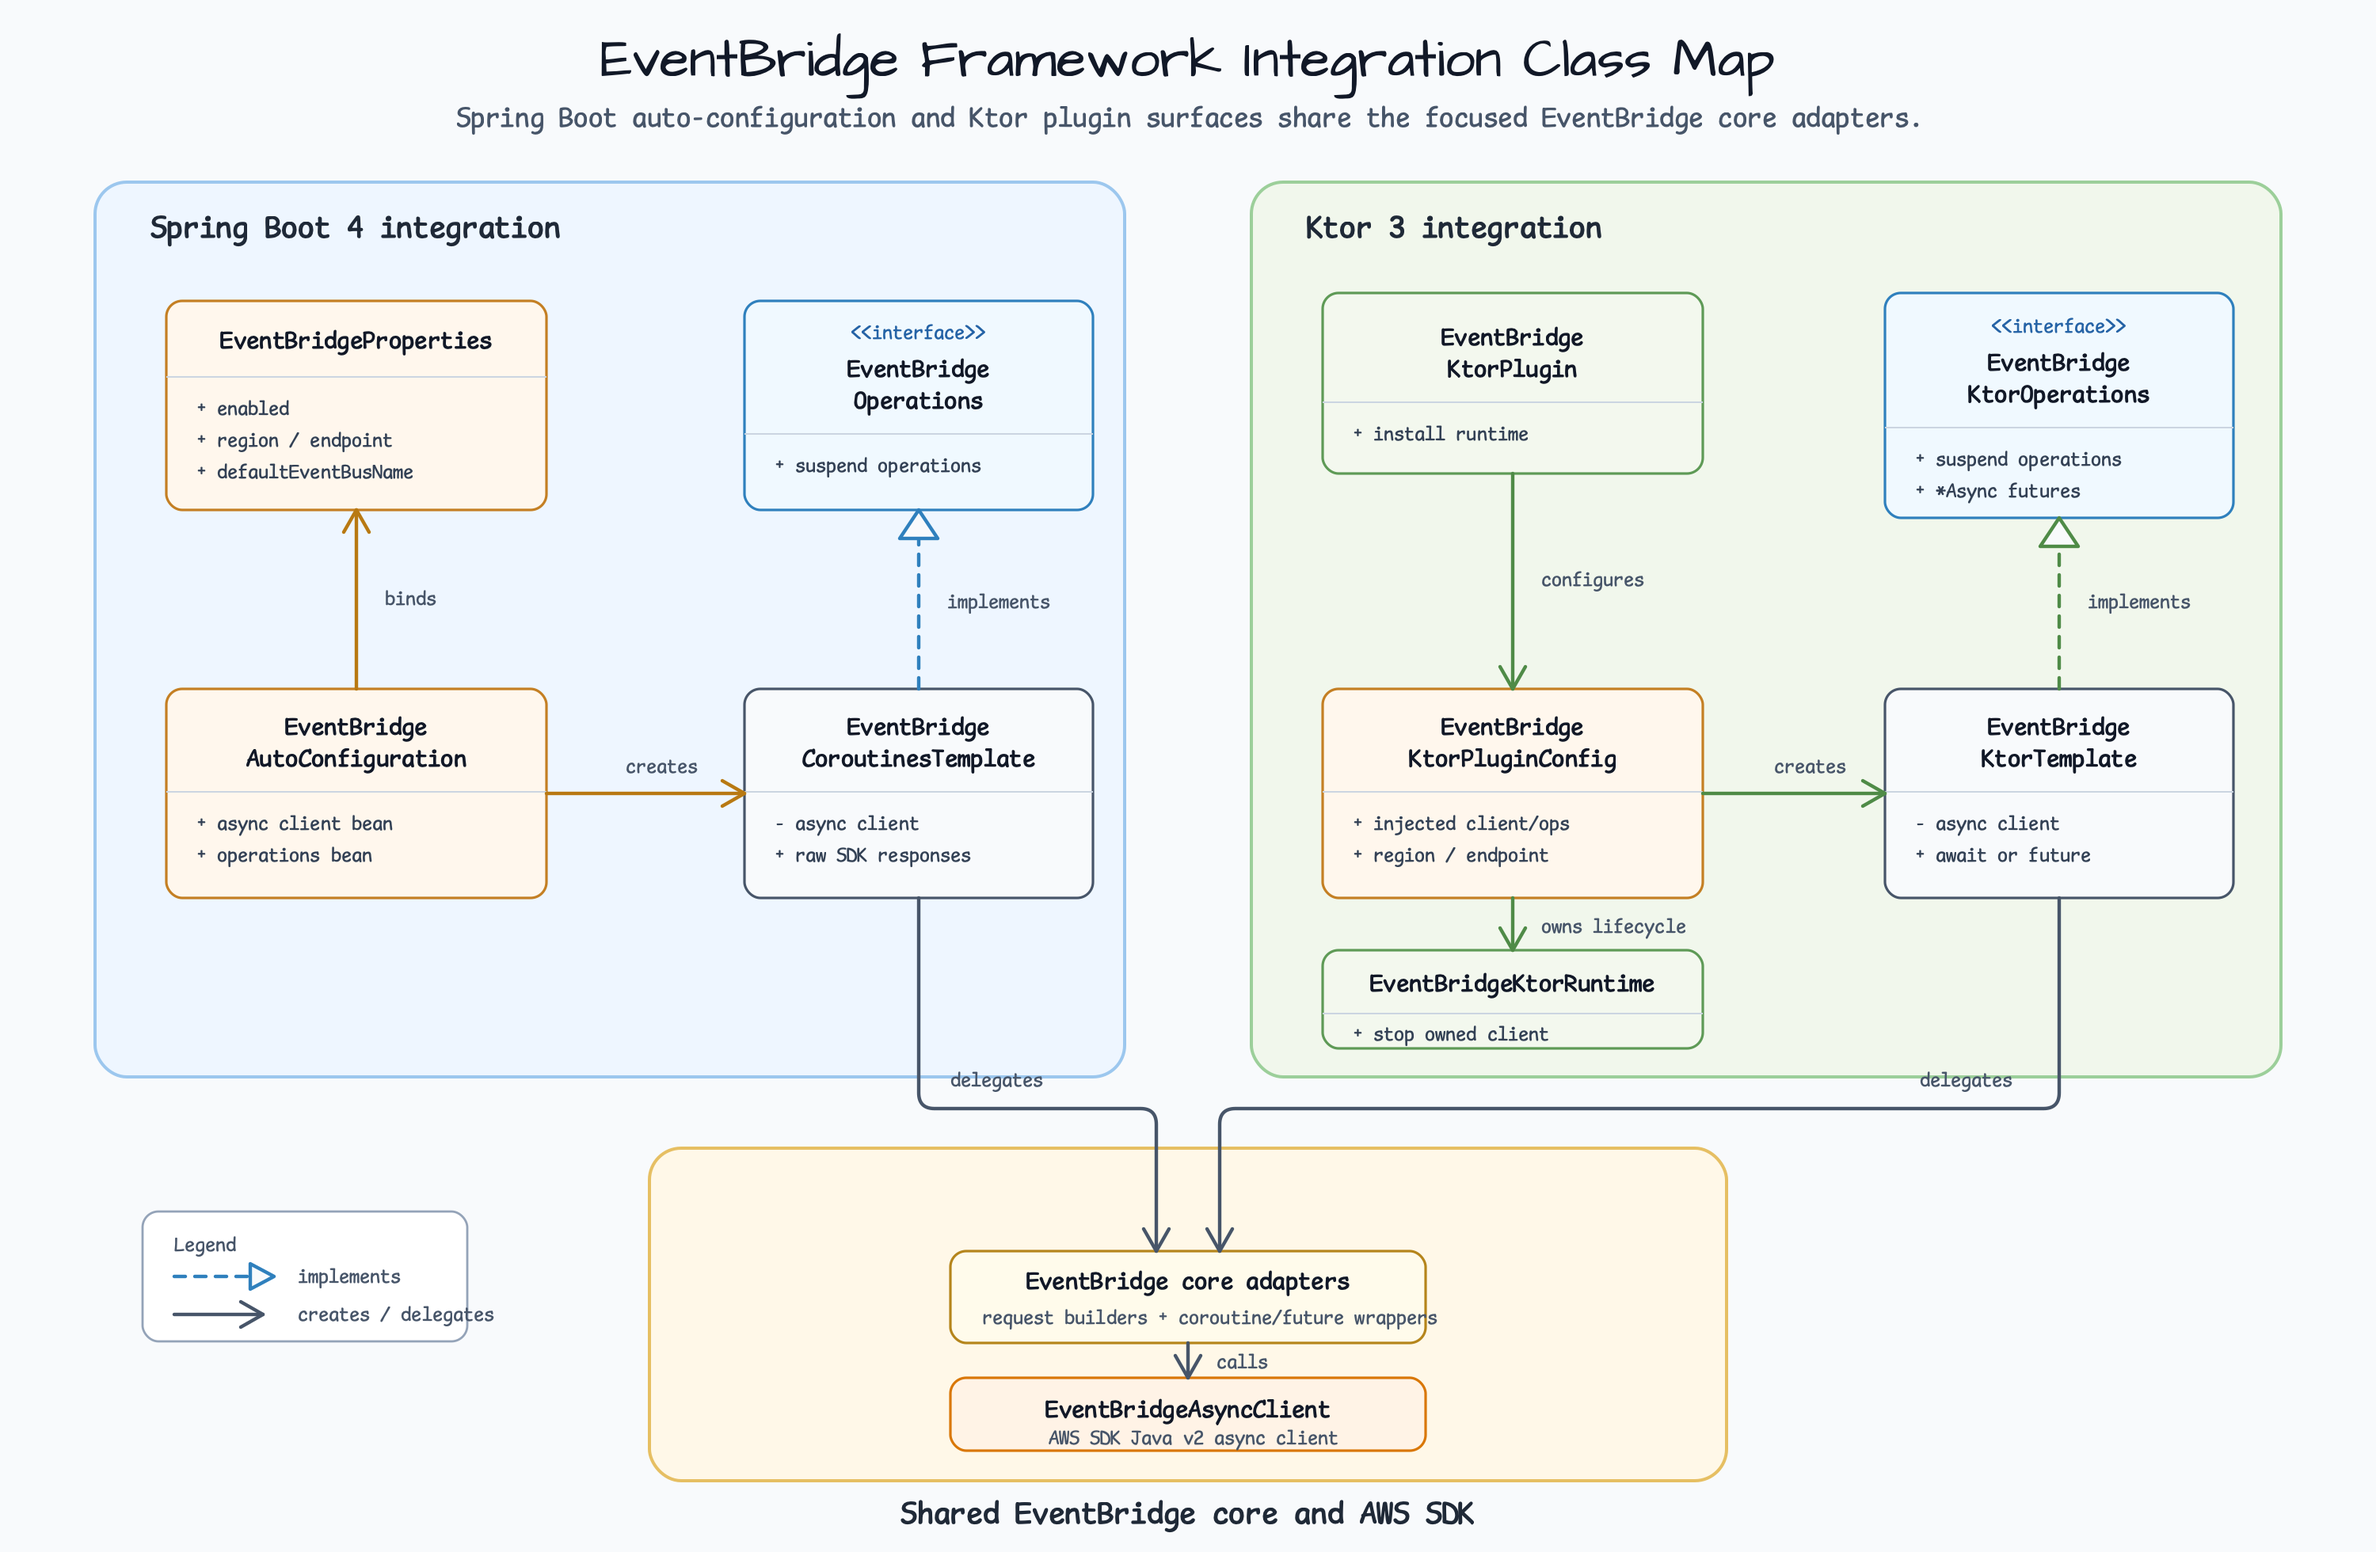
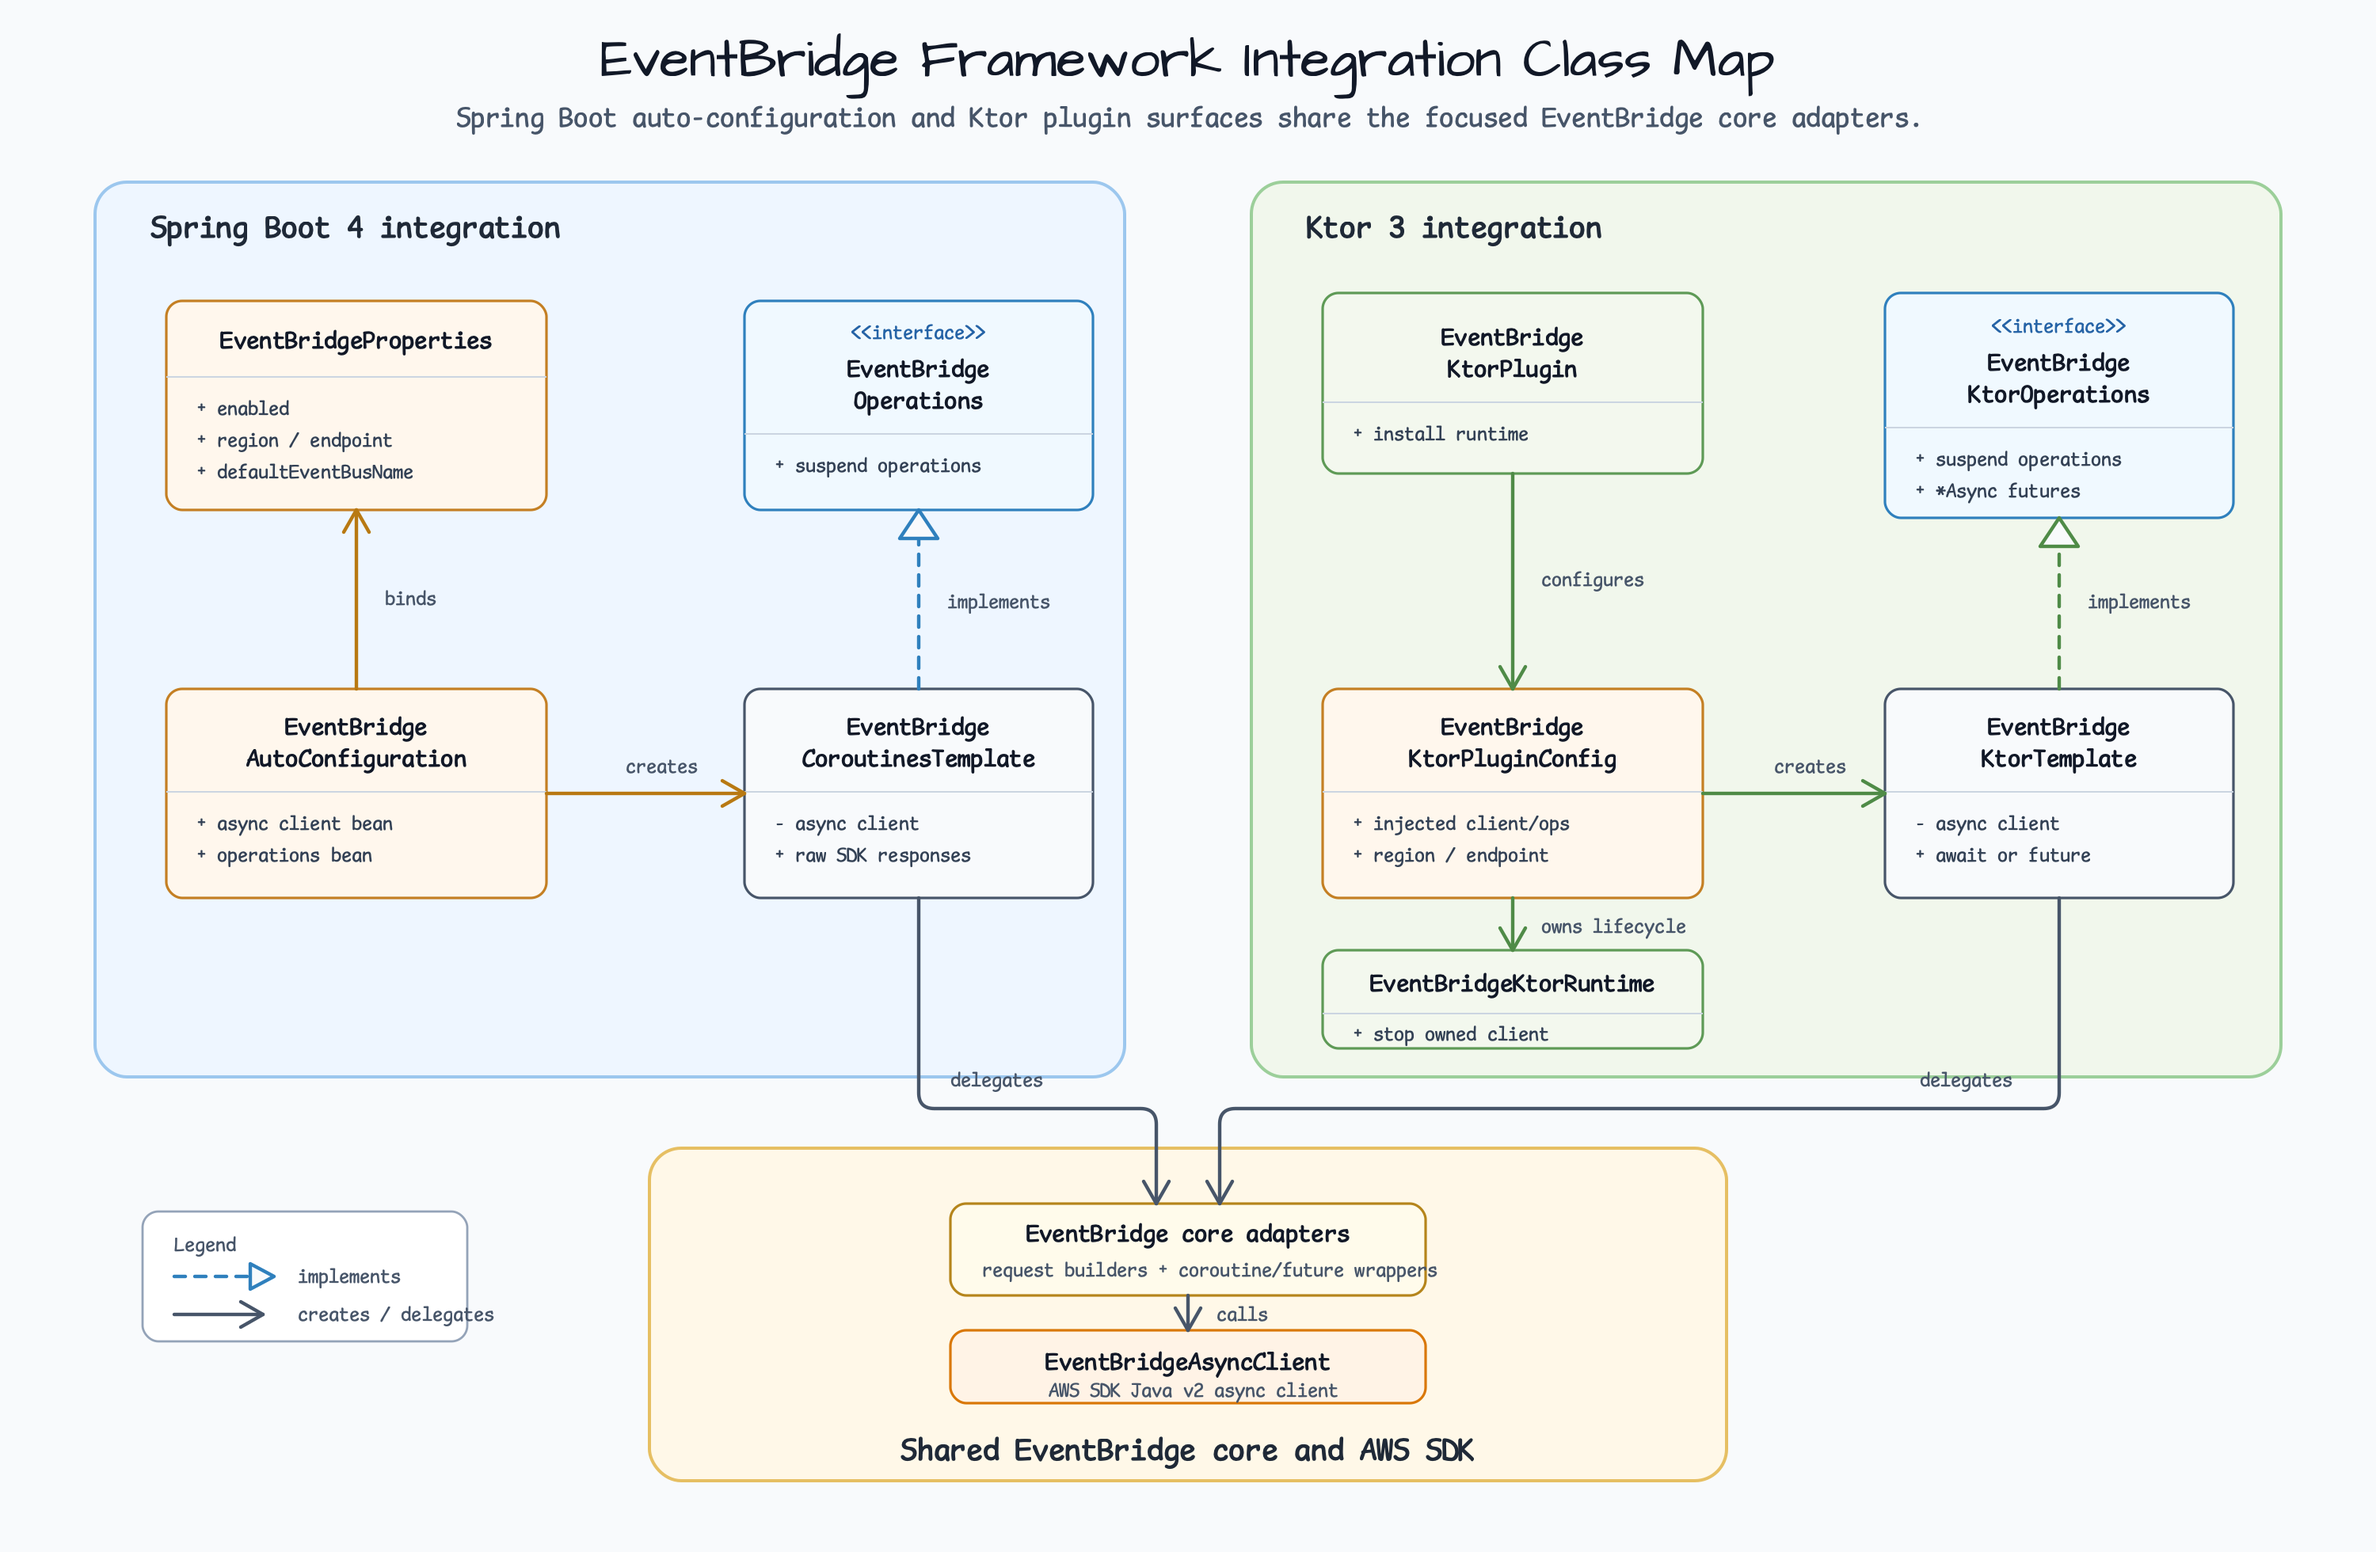
docs: keep shared title inside layer
Raise the shared EventBridge cards and place the shared layer title inside the lower layer area so the diagram keeps the same layer-title convention without connector overlap.

Constraint: Layer titles should remain visually inside their layers unless the diagram family documents another convention.

Rejected: Place the shared title outside the layer | it made the shared layer read differently from Spring Boot and Ktor layers.

Confidence: high

Scope-risk: narrow

Directive: Move cards to create an inside-layer title band before moving a layer title outside its frame.

Tested: python3 XML parse for docs/images/readme-diagrams/bluetape4k-aws-eventbridge-class-32.svg

Tested: ~/.local/bin/cairosvg docs/images/readme-diagrams/bluetape4k-aws-eventbridge-class-32.svg -o docs/images/readme-diagrams/bluetape4k-aws-eventbridge-class-32.png -s 2

Tested: diagram geometry, endpoint, mixed-corner, and connector audits

Tested: full-size PNG visual inspection

Tested: git diff --cached --check

Not-tested: Markdown renderer screenshot in GitHub UI.

Changed region(s): [[0.372, 0.7469, 0.62, 0.9959]]

diff --git a/docs/review/2026-07-01-issue-309-code-review.md b/docs/review/2026-07-01-issue-309-code-review.md
@@ -38,5 +38,5 @@
   - `diagram-mixed-corner-audit.py` reported `paths=12 q_bends=4 failures=0`.
   - `diagram-connector-audit.py` reported `markers=0 connectors=12 cards=11 intrusions=0 crossings=0`.
   - Full-size PNG inspection failed the earlier compact layout, so the diagram was expanded to a `1500 x 980` SVG canvas with wider card spacing and a dedicated lower delegate corridor.
-  - Shared layer title was moved below the layer so the delegate connectors no longer pass through the title text.
+  - Shared layer title was moved to the inside-bottom of the layer, and shared cards were raised so delegate connectors no longer pass through the title text.
   - Full-size PNG re-inspection confirmed no text/card/connector overlap, no card intrusions, and readable rounded turns after the expansion.
